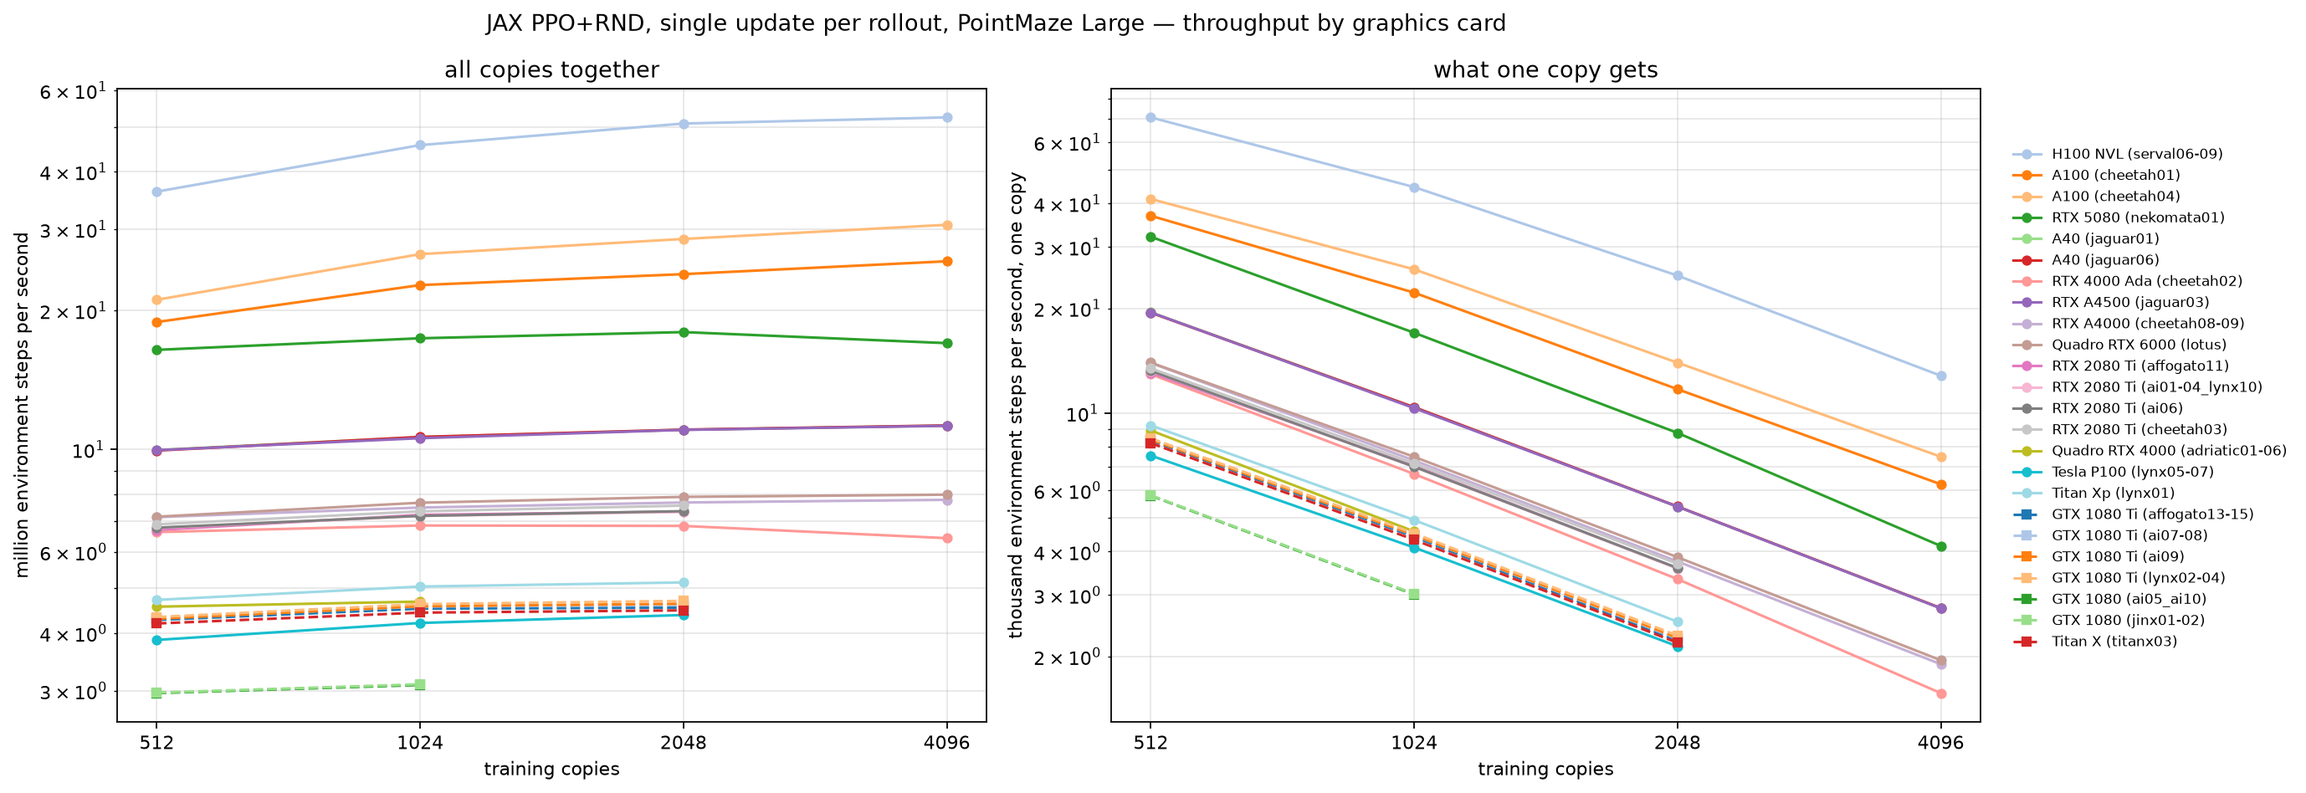
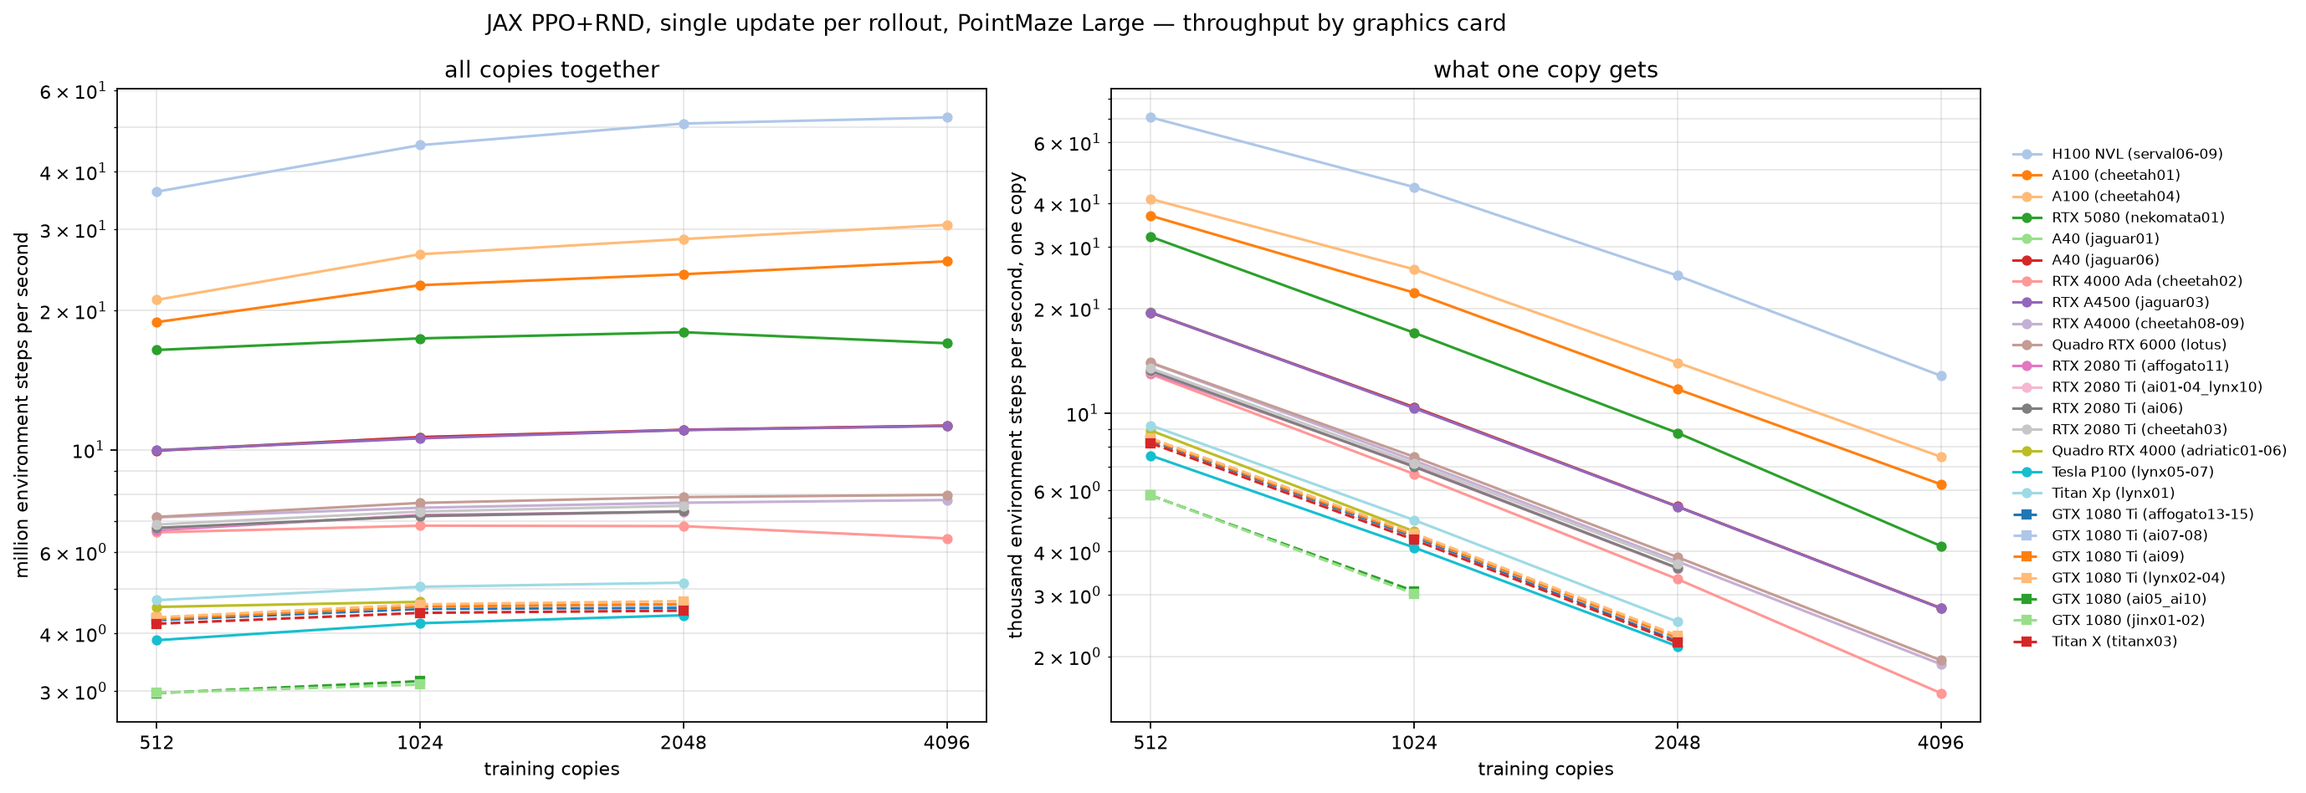
GPU throughput survey: the memory-by-generation claim is computed from the cells, not written by hand
The hand-written figure said 66% more memory on an older card. Checked against the cells, that
ratio holds at 4,096 copies alone; per copy across all four sizes it is 50%. Both reports now
derive the numbers from the same function, so neither can drift from the measurements or from
each other.

diff --git a/09_parallelization/2026-08-16-15-28_gpu_node_throughput_survey_jax-ppo-rnd_single-update_pointmaze-large_copies-512-1024-2048-4096_cpus-8-16-32_all-gpu-and-gnolim-node-classes/code/analyze.py b/09_parallelization/2026-08-16-15-28_gpu_node_throughput_survey_jax-ppo-rnd_single-update_pointmaze-large_copies-512-1024-2048-4096_cpus-8-16-32_all-gpu-and-gnolim-node-classes/code/analyze.py
@@ -450,6 +450,49 @@ def memory_table(classes, jobs):
     return "\n".join(lines)
 
 
+def memory_by_generation(jobs, probes):
+    """How much card memory a copy costs, split by the card's generation — computed, not assumed.
+
+    The split is by compute capability read off the card itself: 8.0 and above is Ampere and
+    newer, below it is Turing and Pascal. Both the per-copy cost and the figure at the largest
+    copy count are quoted, because they are different ratios and the difference matters when
+    the claim is repeated.
+    """
+    capability = {p["device_kind"]: float(p["compute_capability"]) for p in probes
+                  if p.get("compute_capability")}
+    per_thousand, at_largest = {"older": [], "newer": []}, {"older": [], "newer": []}
+    for job in jobs.values():
+        for cell in job["cells"]:
+            if cell.get("status") != "measured" or cell["device_kind"] not in capability:
+                continue
+            group = "newer" if capability[cell["device_kind"]] >= 8.0 else "older"
+            gb = cell["peak_device_memory_mb"] / 1000
+            per_thousand[group].append(gb / cell["n_copies"] * 1000)
+            if cell["n_copies"] == max(COPY_COUNTS):
+                at_largest[group].append(gb)
+    if not per_thousand["older"] or not per_thousand["newer"]:
+        return ""
+    old, new = np.mean(per_thousand["older"]), np.mean(per_thousand["newer"])
+    largest = ""
+    if at_largest["older"] and at_largest["newer"]:
+        o, n = np.mean(at_largest["older"]), np.mean(at_largest["newer"])
+        largest = (f" At {max(COPY_COUNTS):,} copies, the size where it bites, that is "
+                   f"{o:.1f} GB against {n:.1f} GB — {o / n - 1:.0%} more.")
+    return (
+        f"**The same run costs about half as much memory again on an older card.** A thousand "
+        f"copies take {old:.2f} GB on every Turing and Pascal card measured and {new:.2f} GB on "
+        f"every Ampere, Ada, Hopper and Blackwell card — {old / new - 1:.0%} more on the older "
+        f"generation.{largest} The older cards are also the more uniform group: their per-copy "
+        f"cost sits between {min(per_thousand['older']):.2f} and "
+        f"{max(per_thousand['older']):.2f} GB across three distinct architectures, while the "
+        f"newer ones range from {min(per_thousand['newer']):.2f} to "
+        f"{max(per_thousand['newer']):.2f} GB. The split follows the card generation and not "
+        "the card's size or speed, so it is the compiler emitting a different program for the "
+        "older architectures, not the trainer asking for more. What in that program costs the "
+        "extra memory was not investigated here. The practical consequence is that an older "
+        "card reaches its ceiling sooner than its size alone suggests.")
+
+
 def stability_summary(jobs):
     """How firm the survey's numbers are, over every cell it measured."""
     spreads = [c["relative_spread_middle_half"] for j in jobs.values() for c in j["cells"]
@@ -620,15 +663,7 @@ def main():
         "",
         memory_table(classes, jobs),
         "",
-        "**The same run needs 66% more memory on an older card.** Every card at compute "
-        "capability 8.0 and above — Ampere, Ada, Hopper, Blackwell — holds 4,096 copies in "
-        "about 11.3 GB, while every Turing and Pascal card needs about 18.8 GB for exactly the "
-        "same work, and the H100 sits slightly above its generation at 13.4 GB. The split "
-        "follows the card generation and not the card's size or speed, so it is the compiler "
-        "emitting a different program for the older architectures, not the trainer asking for "
-        "more. What in that program costs the extra memory was not investigated here. The "
-        "practical consequence is that the memory ceiling of an older card is reached about a "
-        "third sooner than its size alone suggests.",
+        memory_by_generation(jobs, probes),
         "",
         "![peak memory](plots/peak_memory.png)",
         "",

diff --git a/09_parallelization/2026-08-16-15-28_gpu_node_throughput_survey_jax-ppo-rnd_single-update_pointmaze-large_copies-512-1024-2048-4096_cpus-8-16-32_all-gpu-and-gnolim-node-classes/code/make_artifact.py b/09_parallelization/2026-08-16-15-28_gpu_node_throughput_survey_jax-ppo-rnd_single-update_pointmaze-large_copies-512-1024-2048-4096_cpus-8-16-32_all-gpu-and-gnolim-node-classes/code/make_artifact.py
@@ -145,8 +145,34 @@ def mark(value, ranked, fmt):
     return text
 
 
+def memory_split(jobs, probes):
+    """Card memory per thousand copies, split at compute capability 8.0 — the same numbers the
+    markdown report computes, so the two never drift apart."""
+    capability = {p["device_kind"]: float(p["compute_capability"]) for p in probes
+                  if p.get("compute_capability")}
+    per_thousand = {"older": [], "newer": []}
+    largest = {"older": [], "newer": []}
+    for job in jobs.values():
+        for cell in job["cells"]:
+            if cell.get("status") != "measured" or cell["device_kind"] not in capability:
+                continue
+            group = "newer" if capability[cell["device_kind"]] >= 8.0 else "older"
+            gb = cell["peak_device_memory_mb"] / 1000
+            per_thousand[group].append(gb / cell["n_copies"] * 1000)
+            if cell["n_copies"] == max(COPY_COUNTS):
+                largest[group].append(gb)
+    out = {"older": float(np.mean(per_thousand["older"])),
+           "newer": float(np.mean(per_thousand["newer"]))}
+    out["ratio"] = out["older"] / out["newer"]
+    if largest["older"] and largest["newer"]:
+        out["largest_older"] = float(np.mean(largest["older"]))
+        out["largest_newer"] = float(np.mean(largest["newer"]))
+    return out
+
+
 def build(classes, jobs, probes):
     """The whole page."""
+    mem = memory_split(jobs, probes)
     now = datetime.now().astimezone(PACIFIC).strftime("%Y-%m-%d %H:%M PT")
     n_cells = sum(1 for j in jobs.values() for c in j["cells"] if c.get("status") == "measured")
     n_oom = sum(1 for j in jobs.values() for c in j["cells"]
@@ -281,13 +307,18 @@ def build(classes, jobs, probes):
             "percent, with no consistent direction. The trainer keeps its arrays on the card "
             "and the host only dispatches. <strong>Ask for eight</strong>; the rest are free to "
             "carry other work.</p></div>",
-            '<div class="finding"><h3>The same run needs 66% more memory on an older card</h3>'
-            "<p>Ampere and newer hold 4,096 copies in about 11.3&nbsp;GB; every Turing and "
-            "Pascal card needs about 18.8&nbsp;GB for identical work. The split follows the "
-            "card generation, not its size or speed, so it is the compiler emitting a different "
-            "program &mdash; not the trainer asking for more. <strong>An older card reaches its "
-            "ceiling about a third sooner than its size suggests.</strong> What in that program "
-            "costs the extra memory was not investigated here.</p></div>",
+            '<div class="finding"><h3>An older card spends about half as much memory again on '
+            "the same run</h3>"
+            f"<p>A thousand copies take {mem['older']:.2f}&nbsp;GB on every Turing and Pascal "
+            f"card measured and {mem['newer']:.2f}&nbsp;GB on every Ampere, Ada, Hopper and "
+            f"Blackwell card &mdash; {mem['ratio'] - 1:.0%} more on the older generation"
+            + (f", and {mem['largest_older']:.1f}&nbsp;GB against "
+               f"{mem['largest_newer']:.1f}&nbsp;GB at 4,096 copies, where it bites"
+               if mem.get("largest_older") else "")
+            + ". The split follows the card generation, not its size or speed, so it is the "
+            "compiler emitting a different program &mdash; not the trainer asking for more. "
+            "<strong>An older card reaches its ceiling sooner than its size suggests.</strong> "
+            "What in that program costs the extra memory was not investigated here.</p></div>",
             "</section>"]
 
     # what is still missing, stated plainly

diff --git a/09_parallelization/2026-08-16-15-28_gpu_node_throughput_survey_jax-ppo-rnd_single-update_pointmaze-large_copies-512-1024-2048-4096_cpus-8-16-32_all-gpu-and-gnolim-node-classes/results.md b/09_parallelization/2026-08-16-15-28_gpu_node_throughput_survey_jax-ppo-rnd_single-update_pointmaze-large_copies-512-1024-2048-4096_cpus-8-16-32_all-gpu-and-gnolim-node-classes/results.md
@@ -1,8 +1,8 @@
 # Throughput of the single-update JAX PPO+RND trainer on every graphics card of this cluster
 
-Written 2026-08-16 16:46 PT. Times in this document are Pacific; the cluster's machines run Eastern, so every machine timestamp is converted where it is displayed.
+Written 2026-08-16 16:56 PT. Times in this document are Pacific; the cluster's machines run Eastern, so every machine timestamp is converted where it is displayed.
 
-68 of 80 jobs have reported, giving 221 measured cells; 46 cells did not fit on their card. 12 jobs are still queued or unrun — every number below is what has arrived, not a complete survey.
+69 of 80 jobs have reported, giving 227 measured cells; 49 cells did not fit on their card. 11 jobs are still queued or unrun — every number below is what has arrived, not a complete survey.
 
 ## 1. What was measured
 
@@ -24,14 +24,14 @@ One node per node class — nodes identical in card type, card memory, processor
 |---|---|---|---|---|---|---|---|
 | `serval03` | gpu | H100 NVL | 9.0 | 95.8 | amd epyc 9534 | none yet | 0/12 |
 | `serval06-09` | gpu | H100 NVL | 9.0 | 95.8 | amd epyc 9354 | 8, 16, 32 | 12/12 |
-| `cheetah01` | gpu | A100 | 8.0 | 41.0 | amd epyc 7252 | 8, 16, 28 | 11/12 |
+| `cheetah01` | gpu | A100 | 8.0 | 41.0 | amd epyc 7252 | 8, 16, 28 | 12/12 |
 | `cheetah04` | gpu | A100 | 8.0 | 81.1 | amd epyc 7742 | 8, 16, 32 | 12/12 |
 | `nekomata01` | gpu | RTX 5080 | 12.0 | 16.3 | icelake | 8, 16, 22 | 12/12 |
 | `jaguar01` | gpu | A40 | 8.6 | 46.1 | skylake | 8, 16, 32 | 12/12 |
 | `jaguar06` | gpu | A40 | 8.6 | 46.1 | icelake | 8, 16, 32 | 12/12 |
 | `cheetah02` | gpu | RTX 4000 Ada | 8.9 | 20.5 | skylake | 8, 16, 32 | 12/12 |
 | `jaguar03` | gpu | RTX A4500 | 8.6 | 20.5 | amd epyc 7663 | 8, 16, 32 | 12/12 |
-| `cheetah08-09` | gpu | RTX A4000 | 8.6 | 16.4 | skylake | 8, 16 | 7/12 |
+| `cheetah08-09` | gpu | RTX A4000 | 8.6 | 16.4 | skylake | 8, 16 | 8/12 |
 | `jaguar02` | gpu | A16 | 8.6 | 15.4 | icelake | none yet | 0/12 |
 | `lotus` | gpu | Quadro RTX 6000 | 7.5 | 24.1 | skylake | 8, 16, 32 | 12/12 |
 | `affogato11` | gpu | RTX 2080 Ti | 7.5 | 10.9 | broadwell | 8 | 3/12 |
@@ -46,9 +46,9 @@ One node per node class — nodes identical in card type, card memory, processor
 | `ai07-08` | gnolim | GTX 1080 Ti | 6.1 | 11.3 | skylake | 8, 16, 30 | 9/12 |
 | `ai09` | gnolim | GTX 1080 Ti | 6.1 | 11.3 | skylake | 8, 16, 30 | 9/12 |
 | `lynx02-04` | gpu | GTX 1080 Ti | 6.1 | 11.3 | broadwell | 8, 16, 30 | 9/12 |
-| `ai05_ai10` | gnolim | GTX 1080 | 6.1 | 8.2 | skylake | 8, 16 | 4/12 |
+| `ai05_ai10` | gnolim | GTX 1080 | 6.1 | 8.2 | skylake | 8, 16, 30 | 6/12 |
 | `jinx01-02` | gnolim | GTX 1080 | 6.1 | 8.2 | haswell | 8, 16, 22 | 6/12 |
-| `titanx03` | gnolim | Titan X | 6.1 (catalog says 5.2) | 12.3 | haswell | 8, 16, 22 | 7/12 |
+| `titanx03` | gnolim | Titan X | 6.1 (catalog says 5.2) | 12.3 | haswell | 8, 16, 22 | 9/12 |
 
 All 23 classes probed so far run the trainer: JAX 0.10.2 with the CUDA 12 plugin reaches every card generation here, from compute capability 6.0 (Tesla P100, 2016) to 12.0 (RTX 5080, 2025), so no node class had to be dropped for lack of support.
 
@@ -92,7 +92,7 @@ Each class at whichever of its processor counts ran fastest. Best value in bold,
 | `titanx03` | Titan X | 8 | 0.0625 | 4.20 | 8,196 | 0.034 | 2.3 | 0.10% |
 | `lynx05-07` | Tesla P100 | 16 | 0.0678 | 3.87 | 7,550 | 0.037 | 2.3 | 0.03% |
 | `jinx01-02` | GTX 1080 | 22 | 0.0882 | 2.97 | 5,805 | 0.048 | 2.3 | 0.03% |
-| `ai05_ai10` | GTX 1080 | 8 | 0.0884 | 2.96 | 5,790 | 0.048 | 2.3 | 0.06% |
+| `ai05_ai10` | GTX 1080 | 30 | 0.0883 | 2.97 | 5,799 | 0.048 | 2.3 | 0.05% |
 | `serval03` | H100 NVL | — | — | not measured yet | — | — | — | — |
 | `jaguar02` | A16 | — | — | not measured yet | — | — | — | — |
 | `jaguar05` | Quadro RTX 4000 | — | — | not measured yet | — | — | — | — |
@@ -127,8 +127,8 @@ Each class at whichever of its processor counts ran fastest. Best value in bold,
 | `affogato13-15` | GTX 1080 Ti | 8 | 0.1160 | 4.52 | 4,412 | 0.063 | 4.7 | 0.15% |
 | `titanx03` | Titan X | 8 | 0.1184 | 4.43 | 4,326 | 0.064 | 4.7 | 0.22% |
 | `lynx05-07` | Tesla P100 | 16 | 0.1246 | 4.21 | 4,108 | 0.068 | 4.7 | 0.02% |
+| `ai05_ai10` | GTX 1080 | 30 | 0.1664 | 3.15 | 3,077 | 0.090 | 4.7 | 0.23% |
 | `jinx01-02` | GTX 1080 | 16 | 0.1692 | 3.10 | 3,026 | 0.092 | 4.7 | 0.06% |
-| `ai05_ai10` | GTX 1080 | 8 | 0.1699 | 3.09 | 3,014 | 0.092 | 4.7 | 0.17% |
 | `serval03` | H100 NVL | — | — | not measured yet | — | — | — | — |
 | `jaguar02` | A16 | — | — | not measured yet | — | — | — | — |
 | `jaguar05` | Quadro RTX 4000 | — | — | not measured yet | — | — | — | — |
@@ -215,7 +215,7 @@ Each class at whichever of its processor counts ran fastest. Best value in bold,
 
 The trainer keeps its arrays on the card and the host only dispatches, so the expectation is that 8, 16 and 32 processors give the same iteration time.
 
-**It does not.** Over the 75 card-and-copy-count combinations measured at two or more processor counts, the slowest processor count was slower than the fastest by 0.2% in the typical case and 2.6% at the very worst — the size of the measurement's own noise, and with no consistent direction: more processors are as often marginally slower as marginally faster. Eight processors is therefore the right request for this trainer, and the processors beyond that are free to carry other work.
+**It does not.** Over the 76 card-and-copy-count combinations measured at two or more processor counts, the slowest processor count was slower than the fastest by 0.2% in the typical case and 2.6% at the very worst — the size of the measurement's own noise, and with no consistent direction: more processors are as often marginally slower as marginally faster. Eight processors is therefore the right request for this trainer, and the processors beyond that are free to carry other work.
 
 The table below is the evidence, one row per card and copy count; its last column is the span between the fastest and the slowest processor count as a fraction of the fastest. A count this node class cannot allocate reads N/A; one it can allocate but has not yet reported reads "not yet".
 
@@ -228,7 +228,7 @@ The table below is the evidence, one row per card and copy count; its last colum
 | `cheetah01` | A100 | 512 | 13.9 | 14.0 | N/A | 28, 13.9 | 0.9% |
 | `cheetah01` | A100 | 1024 | 23.1 | 23.1 | N/A | 28, 23.1 | 0.2% |
 | `cheetah01` | A100 | 2048 | 43.7 | 43.9 | N/A | 28, 43.9 | 0.5% |
-| `cheetah01` | A100 | 4096 | 82.0 | 82.2 | N/A | 28, not yet | 0.3% |
+| `cheetah01` | A100 | 4096 | 82.0 | 82.2 | N/A | 28, 82.1 | 0.3% |
 | `cheetah04` | A100 | 512 | 12.5 | 12.4 | 12.4 | N/A | 0.4% |
 | `cheetah04` | A100 | 1024 | 20.1 | 20.0 | 19.8 | N/A | 1.6% |
 | `cheetah04` | A100 | 2048 | 36.8 | 36.7 | 36.7 | N/A | 0.3% |
@@ -256,6 +256,7 @@ The table below is the evidence, one row per card and copy count; its last colum
 | `cheetah08-09` | RTX A4000 | 512 | 36.8 | 36.7 | not yet | N/A | 0.1% |
 | `cheetah08-09` | RTX A4000 | 1024 | 70.2 | 70.1 | not yet | N/A | 0.2% |
 | `cheetah08-09` | RTX A4000 | 2048 | 136.6 | 136.8 | not yet | N/A | 0.1% |
+| `cheetah08-09` | RTX A4000 | 4096 | 269.6 | 269.9 | not yet | N/A | 0.1% |
 | `lotus` | Quadro RTX 6000 | 512 | 36.7 | 36.7 | 36.8 | N/A | 0.4% |
 | `lotus` | Quadro RTX 6000 | 1024 | 68.4 | 68.4 | 68.5 | N/A | 0.2% |
 | `lotus` | Quadro RTX 6000 | 2048 | 133.4 | 132.8 | 133.5 | N/A | 0.5% |
@@ -289,13 +290,13 @@ The table below is the evidence, one row per card and copy count; its last colum
 | `lynx02-04` | GTX 1080 Ti | 512 | 60.5 | 60.6 | N/A | 30, 61.5 | 1.6% |
 | `lynx02-04` | GTX 1080 Ti | 1024 | 113.4 | 114.3 | N/A | 30, 113.7 | 0.8% |
 | `lynx02-04` | GTX 1080 Ti | 2048 | 226.1 | 223.2 | N/A | 30, 226.6 | 1.5% |
-| `ai05_ai10` | GTX 1080 | 512 | 88.4 | 88.5 | N/A | 30, not yet | 0.0% |
-| `ai05_ai10` | GTX 1080 | 1024 | 169.9 | 170.0 | N/A | 30, not yet | 0.1% |
+| `ai05_ai10` | GTX 1080 | 512 | 88.4 | 88.5 | N/A | 30, 88.3 | 0.2% |
+| `ai05_ai10` | GTX 1080 | 1024 | 169.9 | 170.0 | N/A | 30, 166.4 | 2.2% |
 | `jinx01-02` | GTX 1080 | 512 | 88.2 | 88.2 | N/A | 22, 88.2 | 0.0% |
 | `jinx01-02` | GTX 1080 | 1024 | 169.4 | 169.2 | N/A | 22, 169.3 | 0.1% |
 | `titanx03` | Titan X | 512 | 62.5 | 63.5 | N/A | 22, 62.7 | 1.6% |
-| `titanx03` | Titan X | 1024 | 118.4 | 120.0 | N/A | 22, not yet | 1.4% |
-| `titanx03` | Titan X | 2048 | 234.0 | 234.1 | N/A | 22, not yet | 0.0% |
+| `titanx03` | Titan X | 1024 | 118.4 | 120.0 | N/A | 22, 118.7 | 1.4% |
+| `titanx03` | Titan X | 2048 | 234.0 | 234.1 | N/A | 22, 234.3 | 0.1% |
 
 ## 7. Memory, and which cards cannot hold a run
 
@@ -328,7 +329,7 @@ Memory grows in proportion to the copy count — doubling the copies doubles the
 | `jinx01-02` | GTX 1080 | 8.2 | 2.3 | 4.7 | does not fit | does not fit | 4.58 | 1,024 |
 | `titanx03` | Titan X | 12.3 | 2.3 | 4.7 | 9.5 | does not fit | 4.60 | 2,048 |
 
-**The same run needs 66% more memory on an older card.** Every card at compute capability 8.0 and above — Ampere, Ada, Hopper, Blackwell — holds 4,096 copies in about 11.3 GB, while every Turing and Pascal card needs about 18.8 GB for exactly the same work, and the H100 sits slightly above its generation at 13.4 GB. The split follows the card generation and not the card's size or speed, so it is the compiler emitting a different program for the older architectures, not the trainer asking for more. What in that program costs the extra memory was not investigated here. The practical consequence is that the memory ceiling of an older card is reached about a third sooner than its size alone suggests.
+**The same run costs about half as much memory again on an older card.** A thousand copies take 4.60 GB on every Turing and Pascal card measured and 3.07 GB on every Ampere, Ada, Hopper and Blackwell card — 50% more on the older generation. At 4,096 copies, the size where it bites, that is 18.8 GB against 11.6 GB — 62% more. The older cards are also the more uniform group: their per-copy cost sits between 4.58 and 4.65 GB across three distinct architectures, while the newer ones range from 2.75 to 3.54 GB. The split follows the card generation and not the card's size or speed, so it is the compiler emitting a different program for the older architectures, not the trainer asking for more. What in that program costs the extra memory was not investigated here. The practical consequence is that an older card reaches its ceiling sooner than its size alone suggests.
 
 ![peak memory](plots/peak_memory.png)
 
@@ -338,18 +339,18 @@ The throughput figures above are steady-state: compilation and warm-up are disca
 
 | copies | building the trainer<br>(seconds) | compiling the iteration<br>(seconds) | total before the<br>first iteration | iterations that time would<br>buy on an H100 |
 |---|---|---|---|---|
-| 512 | 34 | 27 | 61 | 8,406 |
-| 1024 | 59 | 27 | 85 | 7,419 |
-| 2048 | 114 | 30 | 144 | 6,895 |
-| 4096 | 217 | 39 | 255 | 6,388 |
+| 512 | 34 | 27 | 61 | 8,467 |
+| 1024 | 59 | 26 | 85 | 7,403 |
+| 2048 | 117 | 30 | 147 | 7,046 |
+| 4096 | 218 | 43 | 260 | 6,512 |
 
-More processors do not shorten it. At 4,096 copies the build took 211 s on 8, 220 s on 16, 196 s on 22, 218 s on 32 processors — the same time throughout, because the weights are drawn one copy at a time in a single-threaded loop on the host, so the work never reaches the other processors. It is the one part of a run that would gain from being vectorised across copies rather than looped.
+More processors do not shorten it. At 4,096 copies the build took 211 s on 8, 220 s on 16, 196 s on 22, 500 s on 28, 218 s on 32 processors — the same time throughout, because the weights are drawn one copy at a time in a single-threaded loop on the host, so the work never reaches the other processors. It is the one part of a run that would gain from being vectorised across copies rather than looped.
 
 This is a fixed cost, so it decides whether splitting work across cards pays. Two jobs of 2,048 copies each pay the setup twice; one job of 4,096 pays it once. It also sets a floor under how short a useful run can be — at 4,096 copies the setup alone is about four minutes before a single environment step is taken.
 
 ## 9. How firm these numbers are
 
-Across all 221 measured cells the middle half of the timing rounds sat within 0.10% of the median in the typical cell, within 0.52% in the worst 5%, and never worse than 1.11%. 221 of 221 cells reached the 2% settling target, every one of them within the six-round floor — so no number here rests on a timing that was still drifting when it was taken.
+Across all 227 measured cells the middle half of the timing rounds sat within 0.10% of the median in the typical cell, within 0.52% in the worst 5%, and never worse than 1.11%. 227 of 227 cells reached the 2% settling target, every one of them within the six-round floor — so no number here rests on a timing that was still drifting when it was taken.
 
 ## 10. What is still missing
 
@@ -366,4 +367,3 @@ These jobs have not reported. Jobs pinned to a busy node stay queued on purpose 
 - `affogato11` at 30 processors (RTX 2080 Ti, partition gpu) — this card is already measured on another node class, so the gap is the host processor only
 - `jaguar05` at 8 processors (Quadro RTX 4000, partition gpu) — this card is already measured on another node class, so the gap is the host processor only
 - `jaguar05` at 14 processors (Quadro RTX 4000, partition gpu) — this card is already measured on another node class, so the gap is the host processor only
-- `ai05_ai10` at 30 processors (GTX 1080, partition gnolim) — this card is already measured on another node class, so the gap is the host processor only
